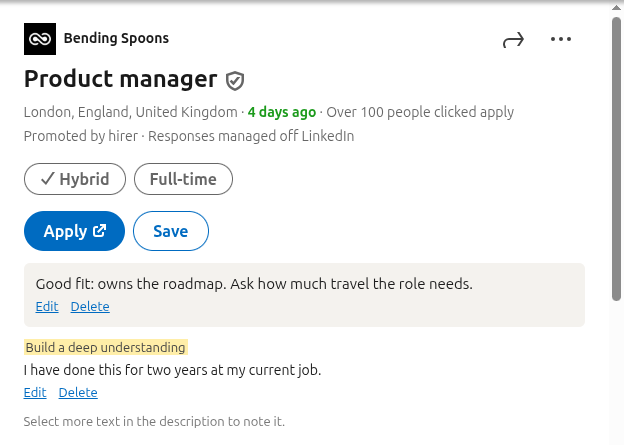
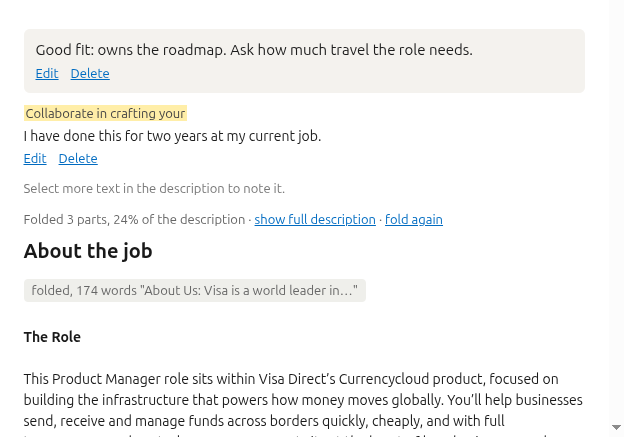
Show the README's notes where 0.7.1 puts them
The README said, and its picture showed, that notes sit under the Apply
button. Since 0.7.1 they sit at the top of the job's description. The
new picture comes from the same test run on the zenbook's LinkedIn as
the old one.

diff --git a/README.md b/README.md
@@ -16,8 +16,8 @@ remembers which jobs you already opened.
 - **Your words, highlighted.** Keep a list such as "remote", "German" or "SQL", and they show in blue in every
   description. If one is inside a folded part, its grey line says so: "· mentions remote".
 - **Notes that stay with the job.** Write a note on a job, or select a sentence in the description and attach a
-  note to it. Your notes sit under the Apply button, and the job list shows a note icon you can hover without
-  opening the job.
+  note to it. Your notes sit at the top of the job's description, and the job list shows a note icon you can
+  hover without opening the job.
 - **Seen jobs stay seen.** Jobs you opened turn grey in every list, with the time you saw them: "👁 3 days ago".
   If a company reposts the job under a new link, it still shows as seen.
 - **Fresh or stale at a glance.** Each job's age runs from green (a day old) through yellow and orange to red
@@ -25,9 +25,9 @@ remembers which jobs you already opened.
 - **You choose the AI that folds.** Use your ChatGPT Plus or Pro plan, a Google Gemini account, or another AI
   service. You can read and change the instructions the AI follows, and try them out in the settings.
 
-**Notes under the Apply button**
+**Notes at the top of a job's description**
 
-![Notes under a job's Apply button](docs/images/notes.png)
+![A note on the job and a note on one sentence, above the folded description](docs/images/notes.png)
 
 **Seen jobs greyed out, ages in colour, and a job's notes on hover**
 
